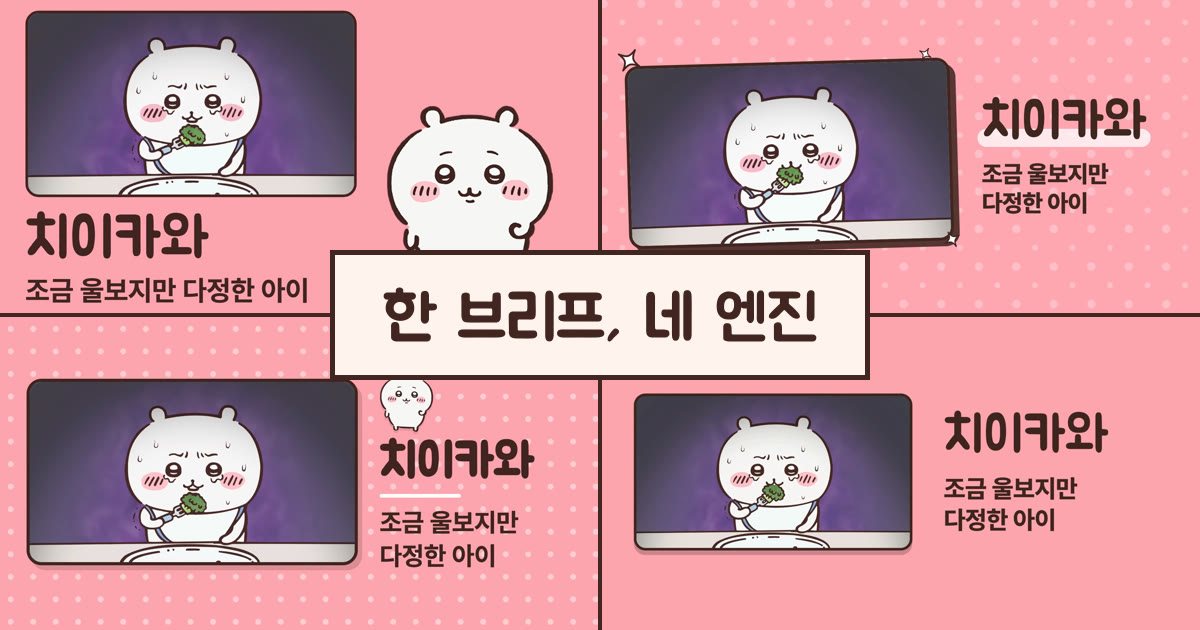
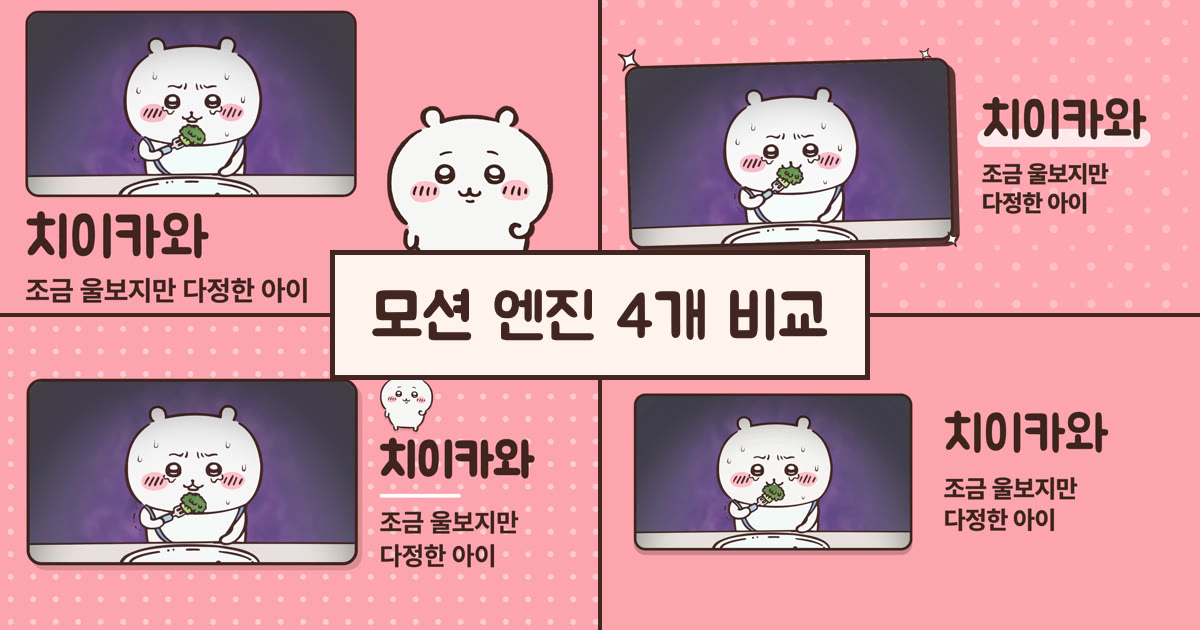
모션 엔진 4개 비교: 판 전환 버벅임·소리 버튼 수정, 제목과 소개문 교체
- 판 전환: 칸마다 두 판 영상을 따로 두고 보이는 쪽만 바꾼다. src를 갈아 끼우지 않아 다시 받지 않고, 숨긴 판은 항상 멈춘다
- 소리 배지를 버튼으로: 소리 나는 칸이면 켜고 끄고, 다른 칸이면 소리를 그 칸으로 옮긴다
- 제목 "한 브리프, 네 엔진" -> "모션 엔진 4개 비교", og 이미지 v=2, 토글 "수정 1회 뒤" -> "수정 뒤", 소개문 교체(BK 문구)

Rejected: src 교체 유지하고 리스너만 손보기 | 재다운로드 대기 자체가 버벅임 원인이라 구조를 바꿈
Not-tested: BK 환경(Safari 등) 실기기 재현, 크로미움으로만 확인

Changed region(s): [[0.3083, 0.4524, 0.7092, 0.5429]]

diff --git a/motion/chiikawa-engines/ce.js b/motion/chiikawa-engines/ce.js
@@ -1,4 +1,4 @@
-// 한 브리프, 네 엔진 - 네 편을 한 시계로 돌린다.
+// 모션 엔진 4개 비교 - 네 편을 한 시계로 돌린다.
 // 기준 시계는 "소리를 내는 편(active)"의 currentTime이고, 나머지는 어긋나면 그 시각으로 당긴다.
 (() => {
   'use strict';
@@ -40,49 +40,67 @@
   const timeEl = $('#time');
   const modeBtns = [...document.querySelectorAll('.mode button')];
   const narrowMq = window.matchMedia('(max-width: 720px)');
+  const MODES = ['orig', 'rev'];
 
   let mode = 'rev';
   let active = 0;
   let playing = false;
   let scrubbing = false;
+  let soundOn = true;
+  let warmed = false;
 
-  const src = (e) => `v/${e.id}-${mode}.mp4`;
   const fmt = (t) => {
     const s = Math.max(0, Math.floor(t));
     return `${Math.floor(s / 60)}:${String(s % 60).padStart(2, '0')}`;
   };
+  const clampT = (v, t) => Math.max(0, Math.min(t, (v.duration || 30) - 0.05));
+  const narrow = () => narrowMq.matches;
 
-  // 칸과 탭 만들기
+  // 칸마다 두 판(처음 만든 것·수정 뒤)의 영상을 따로 두고, 보이는 쪽만 바꾼다.
+  // src를 갈아 끼우지 않으니 판을 바꿀 때 다시 받지 않고, 안 보이는 판은 확실히 멈춘다.
   const tiles = ENGINES.map((e, i) => {
     const fig = document.createElement('figure');
     fig.className = 'tile';
     fig.style.setProperty('--c', e.color);
     fig.tabIndex = 0;
-    fig.setAttribute('aria-label', `${e.name} 영상, 누르면 이 영상 소리만 켭니다`);
+    fig.setAttribute('aria-label', `${e.name} 영상`);
     fig.innerHTML = `
-      <video playsinline muted preload="metadata" poster="v/${e.id}.jpg"></video>
+      <div class="screen">
+        ${MODES.map((m) => `<video data-mode="${m}" playsinline muted preload="metadata" poster="v/${e.id}.jpg" src="v/${e.id}-${m}.mp4"></video>`).join('')}
+      </div>
       <button class="full" type="button" aria-label="${e.name} 전체 화면">
         <svg viewBox="0 0 24 24" aria-hidden="true"><path d="M4 9V4h5M20 9V4h-5M4 15v5h5M20 15v5h-5"/></svg>
       </button>
       <figcaption class="cap">
         <i class="dot" aria-hidden="true"></i>
         <span class="who"><span class="name">${e.name}</span><span class="how">${e.how}</span></span>
-        <span class="sound"></span>
+        <button class="sound" type="button"></button>
       </figcaption>`;
-    const v = fig.querySelector('video');
-    v.src = src(e);
+    const vids = {};
+    fig.querySelectorAll('video').forEach((v) => {
+      vids[v.dataset.mode] = v;
+      v.addEventListener('ended', () => { if (v === master() && !scrubbing) loopAll(); });
+    });
     fig.addEventListener('click', () => select(i, true));
     fig.addEventListener('keydown', (ev) => {
+      if (ev.target !== fig) return;
       if (ev.key === 'Enter' || ev.key === ' ') { ev.preventDefault(); select(i, true); }
     });
     fig.querySelector('.full').addEventListener('click', (ev) => {
       ev.stopPropagation();
       // 전체 화면으로 띄우는 편이 소리를 내도록 먼저 고른다
       select(i, false);
+      const v = vids[mode];
       if (v.requestFullscreen) v.requestFullscreen().catch(() => {});
       else if (v.webkitEnterFullscreen) v.webkitEnterFullscreen();
     });
-    v.addEventListener('ended', () => { if (i === active && !scrubbing) loopAll(); });
+    // 소리 버튼: 소리 나는 칸이면 켜고 끄고, 다른 칸이면 소리를 그 칸으로 옮긴다
+    fig.querySelector('.sound').addEventListener('click', (ev) => {
+      ev.stopPropagation();
+      if (i === active) soundOn = !soundOn;
+      else { soundOn = true; select(i, false); }
+      paint();
+    });
     grid.appendChild(fig);
 
     const tab = document.createElement('button');
@@ -94,7 +112,7 @@
     tab.addEventListener('click', () => select(i, false));
     tabs.appendChild(tab);
 
-    return { e, fig, v, tab };
+    return { e, fig, vids, tab, btn: fig.querySelector('.sound') };
   });
 
   // 표 채우기
@@ -109,36 +127,39 @@
       <td>${e.blind}</td>
     </tr>`).join('');
 
-  const narrow = () => narrowMq.matches;
-  const master = () => tiles[active].v;
+  const cur = (x) => x.vids[mode];
+  const master = () => cur(tiles[active]);
+  const allVids = () => tiles.flatMap((x) => MODES.map((m) => x.vids[m]));
 
   function paint() {
-    tiles.forEach((t, i) => {
+    tiles.forEach((x, i) => {
       const on = i === active;
-      const silent = t.e.silentOrig && mode === 'orig';
-      t.fig.classList.toggle('active', on);
-      t.fig.classList.toggle('mute', silent);
-      t.v.muted = !on;
-      t.fig.querySelector('.sound').textContent = silent ? '원래 무음' : on ? '소리 켜짐' : '소리 끔';
-      t.tab.setAttribute('aria-selected', String(on));
+      const silent = x.e.silentOrig && mode === 'orig';
+      const audible = on && soundOn;
+      MODES.forEach((m) => {
+        const v = x.vids[m];
+        v.hidden = m !== mode;
+        v.muted = !(audible && m === mode);
+      });
+      x.fig.classList.toggle('active', on);
+      x.btn.classList.toggle('on', audible && !silent);
+      x.btn.classList.toggle('mute', silent);
+      x.btn.textContent = silent ? '원래 무음' : audible ? '소리 켜짐' : '소리 끔';
+      x.btn.setAttribute('aria-pressed', String(audible));
+      x.btn.setAttribute('aria-label', `${x.e.name} 소리 ${audible ? '끄기' : '켜기'}`);
+      x.tab.setAttribute('aria-selected', String(on));
     });
     $('#hint').textContent = narrow()
       ? '엔진을 바꿔도 같은 시각에서 이어집니다.'
-      : '영상을 누르면 그 영상 소리만 들립니다.';
+      : '영상을 누르면 재생과 정지, 소리 버튼으로 그 영상 소리를 켜고 끕니다.';
     playBtn.classList.toggle('on', playing);
     playBtn.setAttribute('aria-label', playing ? '일시정지' : '재생');
     modeBtns.forEach((b) => b.setAttribute('aria-checked', String(b.dataset.mode === mode)));
   }
 
-  // 판을 바꾸는 중에는 새 영상의 currentTime이 0이라, 바꾸기 전 시각을 따로 들고 있는다
-  let pendingT = null;
-  let modeGen = 0;
-  const clock = () => (pendingT !== null ? pendingT : master().currentTime);
-  const clampT = (v, t) => Math.max(0, Math.min(t, (v.duration || 30) - 0.05));
-
   function stopAll() {
     playing = false;
-    tiles.forEach((x) => x.v.pause());
+    allVids().forEach((v) => v.pause());
     paint();
   }
 
@@ -152,17 +173,25 @@
     }
   };
 
+  // 지금 보이는 판만 돌리고, 안 보이는 판은 항상 멈춘다
   function runAll() {
-    const t = clock();
+    const t = master().currentTime;
     tiles.forEach((x, i) => {
-      if (narrow() && i !== active) { x.v.pause(); return; }
-      if (i !== active && pendingT === null && Math.abs(x.v.currentTime - t) > 0.05) x.v.currentTime = clampT(x.v, t);
-      if (playing) safePlay(x.v); else x.v.pause();
+      MODES.forEach((m) => { if (m !== mode) x.vids[m].pause(); });
+      const v = cur(x);
+      if (narrow() && i !== active) { v.pause(); return; }
+      if (i !== active && Math.abs(v.currentTime - t) > 0.05) v.currentTime = clampT(v, t);
+      if (playing) safePlay(v); else v.pause();
     });
+    // 한 번 재생을 시작한 넓은 화면에서는 다른 판도 미리 받아 둬 전환을 매끄럽게
+    if (playing && !warmed && !narrow()) {
+      warmed = true;
+      allVids().forEach((v) => { v.preload = 'auto'; });
+    }
   }
 
   function seekAll(t) {
-    tiles.forEach((x) => { x.v.currentTime = clampT(x.v, t); });
+    tiles.forEach((x) => { const v = cur(x); v.currentTime = clampT(v, t); });
   }
 
   function loopAll() {
@@ -172,13 +201,13 @@
 
   function select(i, fromTile) {
     if (i === active) {
-      // 소리 나는 칸을 다시 누르면 재생·정지를 오간다
+      // 칸을 다시 누르면 재생·정지를 오간다
       if (fromTile) { playing = !playing; paint(); runAll(); }
       return;
     }
-    const t = clock();
+    const t = master().currentTime;
     active = i;
-    if (pendingT === null && Math.abs(master().currentTime - t) > 0.05) master().currentTime = clampT(master(), t);
+    if (Math.abs(master().currentTime - t) > 0.05) master().currentTime = clampT(master(), t);
     if (fromTile && !playing) playing = true;
     paint();
     runAll();
@@ -186,22 +215,17 @@
 
   function setMode(m) {
     if (m === mode) return;
-    const t = clock();
-    const gen = ++modeGen;
-    pendingT = t;
+    const t = master().currentTime;
+    tiles.forEach((x) => x.vids[mode].pause());
     mode = m;
     tiles.forEach((x) => {
-      x.v.addEventListener('loadedmetadata', () => {
-        if (gen !== modeGen) return; // 그사이 또 바꿨으면 이 리스너는 버린다
-        x.v.currentTime = clampT(x.v, t);
-        if (x === tiles[active]) pendingT = null;
-        if (playing && (!narrow() || x === tiles[active])) safePlay(x.v);
-      }, { once: true });
-      x.v.src = src(x.e); // src 대입만으로 다시 읽는다(load() 중복 호출 없음)
+      const v = cur(x);
+      if (v.readyState >= 1) v.currentTime = clampT(v, t);
+      else v.addEventListener('loadedmetadata', () => { if (cur(x) === v) v.currentTime = clampT(v, master().currentTime || t); }, { once: true });
     });
-    // 소리 나는 편은 누른 제스처 안에서 재생을 걸어 둔다(iOS 자동재생 정책)
-    if (playing) safePlay(master());
+    if (master().readyState < 1) master().currentTime = t; // 메타데이터 전이면 시작 위치로 잡힌다
     paint();
+    runAll();
   }
 
   playBtn.addEventListener('click', () => {
@@ -214,7 +238,7 @@
   scrub.addEventListener('input', () => {
     if (!scrubbing) {
       scrubbing = true;
-      tiles.forEach((x) => x.v.pause());
+      allVids().forEach((v) => v.pause());
     }
     const t = Number(scrub.value);
     master().currentTime = clampT(master(), t);
@@ -237,19 +261,19 @@
   function tick() {
     const m = master();
     if (!scrubbing) {
-      const t = clock();
-      scrub.value = String(t);
-      timeEl.textContent = fmt(t);
+      scrub.value = String(m.currentTime);
+      timeEl.textContent = fmt(m.currentTime);
     }
-    if (playing && !narrow() && !scrubbing && pendingT === null) {
+    if (playing && !narrow() && !scrubbing) {
       // 소리 나는 편이 버퍼링 중이면 나머지도 같이 기다린다
       const stalled = m.seeking || m.readyState < 3 || m.paused;
       tiles.forEach((x, i) => {
-        if (i === active || x.v.seeking || x.v.ended) return;
-        if (stalled) { if (!x.v.paused) x.v.pause(); return; }
-        if (x.v.readyState < 2) return;
-        if (Math.abs(x.v.currentTime - m.currentTime) > 0.15) x.v.currentTime = clampT(x.v, m.currentTime);
-        if (x.v.paused) safePlay(x.v);
+        const v = cur(x);
+        if (i === active || v.seeking || v.ended) return;
+        if (stalled) { if (!v.paused) v.pause(); return; }
+        if (v.readyState < 2) return;
+        if (Math.abs(v.currentTime - m.currentTime) > 0.15) v.currentTime = clampT(v, m.currentTime);
+        if (v.paused) safePlay(v);
       });
     }
     requestAnimationFrame(tick);

diff --git a/motion/chiikawa-engines/index.html b/motion/chiikawa-engines/index.html
@@ -3,13 +3,13 @@
 <head>
 <meta charset="utf-8">
 <meta name="viewport" content="width=device-width, initial-scale=1, viewport-fit=cover">
-<title>한 브리프, 네 엔진</title>
-<meta name="description" content="같은 30초 먼작귀 소개영상 브리프를 네 가지 영상 엔진을 쓰는 AI 에이전트 넷에게 맡기고, 결과 네 편을 한 화면에서 같이 돌려 봅니다.">
+<title>모션 엔진 4개 비교</title>
+<meta name="description" content="30초 먼작귀 소개영상 시나리오 1개를 모션 엔진이 다른 AI 에이전트 넷에게 맡기고, 결과 네 편을 한 화면에서 같이 돌려 봅니다.">
 <link rel="canonical" href="https://lab.bkan.dev/motion/chiikawa-engines/">
 <meta property="og:type" content="website">
-<meta property="og:title" content="한 브리프, 네 엔진">
-<meta property="og:description" content="같은 주문, 같은 소재로 AI 에이전트 넷이 만든 먼작귀 30초 소개영상.">
-<meta property="og:image" content="https://lab.bkan.dev/motion/chiikawa-engines/og.jpg?v=1">
+<meta property="og:title" content="모션 엔진 4개 비교">
+<meta property="og:description" content="1개의 시나리오로 AI 에이전트 넷이 만든 먼작귀 30초 소개영상.">
+<meta property="og:image" content="https://lab.bkan.dev/motion/chiikawa-engines/og.jpg?v=2">
 <meta property="og:url" content="https://lab.bkan.dev/motion/chiikawa-engines/">
 <meta name="theme-color" content="#FFF3EF">
 <link rel="icon" type="image/png" href="/assets/favicon.png">
@@ -17,15 +17,15 @@
 <link rel="preconnect" href="https://fonts.gstatic.com" crossorigin>
 <link rel="stylesheet" href="https://fonts.googleapis.com/css2?family=Jua&display=swap">
 <link rel="stylesheet" href="https://cdn.jsdelivr.net/gh/orioncactus/pretendard@v1.3.9/dist/web/variable/pretendardvariable-dynamic-subset.min.css">
-<link rel="stylesheet" href="ce.css?v=2">
+<link rel="stylesheet" href="ce.css?v=3">
 </head>
 <body>
 
 <header class="head">
   <a class="crumb" href="/motion/">Motion 목록으로</a>
   <p class="kicker">먼작귀 30초 소개영상</p>
-  <h1>한 브리프, 네 엔진</h1>
-  <p class="lede">같은 주문서와 같은 소재를 AI 에이전트 넷에게 나눠 줬습니다. 에이전트마다 쓰는 영상 엔진만 다르고, 사람에게 묻지 못한 채 끝까지 혼자 만들었습니다. 네 편을 한 시계에 맞춰 같이 돌려 봅니다.</p>
+  <h1>모션 엔진 4개 비교</h1>
+  <p class="lede">1개의 시나리오를 AI 에이전트 넷에게 나눠 줬습니다.<br>에이전트마다 쓰는 영상 엔진만 다르고, 100% Agentic flow로 진행시켰습니다.</p>
 </header>
 
 <section class="player" aria-label="네 편 동시 재생">
@@ -38,7 +38,7 @@
     <span class="time" id="time">0:00</span>
     <div class="mode" role="radiogroup" aria-label="판 고르기">
       <button type="button" role="radio" aria-checked="false" data-mode="orig">처음 만든 것</button>
-      <button type="button" role="radio" aria-checked="true" data-mode="rev">수정 1회 뒤</button>
+      <button type="button" role="radio" aria-checked="true" data-mode="rev">수정 뒤</button>
     </div>
   </div>
 
@@ -85,7 +85,7 @@
 
   <section class="block">
     <h2>한 번 고쳐 달라고 하면</h2>
-    <p>위에서 "수정 1회 뒤"로 바꾸면 보이는 판입니다. 처음 만든 세션을 그대로 이어서, 네 에이전트에게 같은 수정을 한 번 요청했습니다.</p>
+    <p>위에서 "수정 뒤"로 바꾸면 보이는 판입니다. 처음 만든 세션을 그대로 이어서, 네 에이전트에게 같은 수정을 한 번 요청했습니다.</p>
     <ul class="asks">
       <li><span>1</span>배경음악과 전환 효과음을 넣고 음량을 -14 LUFS 안팎으로</li>
       <li><span>2</span>하치와레 설명을 "언제나 밝고 씩씩한 친구"로</li>
@@ -111,6 +111,6 @@
   <p>만든 사람 김병현. 포트폴리오와 블로그는 <a href="https://bkan.dev">bkan.dev</a>에 있습니다.</p>
 </footer>
 
-<script src="ce.js?v=2"></script>
+<script src="ce.js?v=3"></script>
 </body>
 </html>

diff --git a/motion/chiikawa-engines/ce.css b/motion/chiikawa-engines/ce.css
@@ -1,4 +1,4 @@
-/* 한 브리프, 네 엔진 - 먼작귀 공식 색(이름 카드 배경)과 외곽선색으로 */
+/* 모션 엔진 4개 비교 - 먼작귀 공식 색(이름 카드 배경)과 외곽선색으로 */
 :root {
   --ink: #412521;
   --ink-soft: #6d4c47;
@@ -160,6 +160,7 @@ h1::after {
 }
 .tile:hover { transform: translateY(-2px); }
 .tile.active { box-shadow: 0 0 0 4px var(--c), 6px 6px 0 4px var(--ink); }
+.screen { position: relative; }
 .tile video {
   display: block;
   width: 100%;
@@ -189,6 +190,9 @@ h1::after {
 .cap .how { margin: 2px 0 0; font-size: 14px; line-height: 1.5; color: var(--ink-soft); }
 .sound {
   flex: none;
+  font: inherit;
+  cursor: pointer;
+  background: transparent;
   display: inline-flex;
   align-items: center;
   gap: 4px;
@@ -201,8 +205,9 @@ h1::after {
   color: var(--ink-soft);
   white-space: nowrap;
 }
-.tile.active .sound { background: var(--ink); border-color: var(--ink); color: #fff; }
-.tile.mute .sound { background: transparent; color: var(--ink-soft); border-style: dashed; }
+.sound:hover { border-color: var(--ink); }
+.sound.on { background: var(--ink); border-color: var(--ink); color: #fff; }
+.sound.mute { background: transparent; color: var(--ink-soft); border-style: dashed; }
 .full {
   position: absolute;
   top: 10px;
@@ -373,3 +378,4 @@ h2 { font-size: 30px; line-height: 1.25; margin: 0 0 12px; }
 @media (prefers-reduced-motion: reduce) {
   .tile, .play { transition: none; }
 }
+.tile video[hidden] { display: none; }

diff --git a/motion/index.html b/motion/index.html
@@ -30,9 +30,9 @@
   <ul class="shelf">
     <li class="entry">
       <a href="/motion/chiikawa-engines/">
-        <img src="/motion/chiikawa-engines/og.jpg?v=1" alt="분홍 바탕의 치이카와 소개 장면 네 개가 2x2로 놓이고 가운데에 한 브리프, 네 엔진이라는 제목" width="1200" height="630" loading="lazy">
+        <img src="/motion/chiikawa-engines/og.jpg?v=2" alt="분홍 바탕의 치이카와 소개 장면 네 개가 2x2로 놓이고 가운데에 모션 엔진 4개 비교라는 제목" width="1200" height="630" loading="lazy">
         <span>
-          <span class="name">한 브리프, 네 엔진</span>
+          <span class="name">모션 엔진 4개 비교</span>
           <span class="desc">모션그래픽을 AI 에이전트에게 맡길 때 어떤 영상 엔진을 쥐여 줘야 할지, 감으로 고르기보다 직접 견줘 보고 싶어서 만들었습니다. 같은 30초 먼작귀 소개 주문서를 엔진만 다른 에이전트 넷에게 주고, 결과 네 편과 한 번 고쳐 달라고 했을 때의 차이를 한 화면에서 나란히 돌려 보는 것이 목적입니다.</span>
           <span class="when">2026년 10월</span>
         </span>
